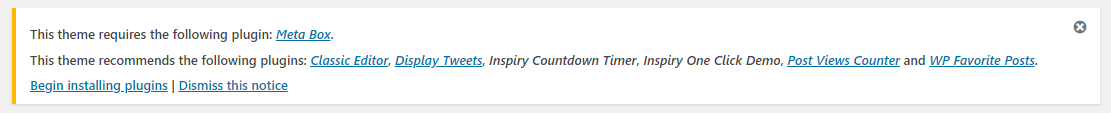
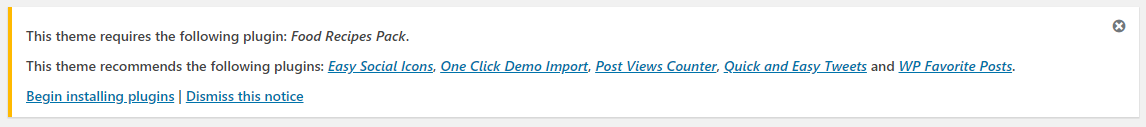
Plugin installation process updated

Changed region(s): [[0.0, 0.0531, 0.9487, 0.9292], [0.9487, 0.1593, 1.0, 0.292]]

diff --git a/index.html b/index.html
@@ -225,7 +225,7 @@
                         <img src="assets/food-recipe/install/2.png" alt=""><br><br>
                         If you already hide it out, you can go to <strong>'Appearance &gt; Install Plugins'</strong> section instead. <br><br>
                         So, you need to install and activate these plugins as demonstrated below.<br><br>
-                        <p>Installing <strong>WP Post View,</strong> <strong>Display Tweets</strong> and <strong> WP Favorite Posts</strong> plugins are optional. WP Post View tracks the views of each recipe and display it at the end of rating box on single recipe page.</p>
+                        <p>Installing <strong>Post Views Counter,</strong> <strong>Quick and easy Tweets,</strong> <strong>Easy Social Icons</strong> and <strong> WP Favorite Posts</strong> plugins are optional. WP Post View tracks the views of each recipe and display it at the end of rating box on single recipe page.</p>
                         <img src="assets/food-recipe/install/install-plugins.gif" alt="">
                     </div>
                 </article>
